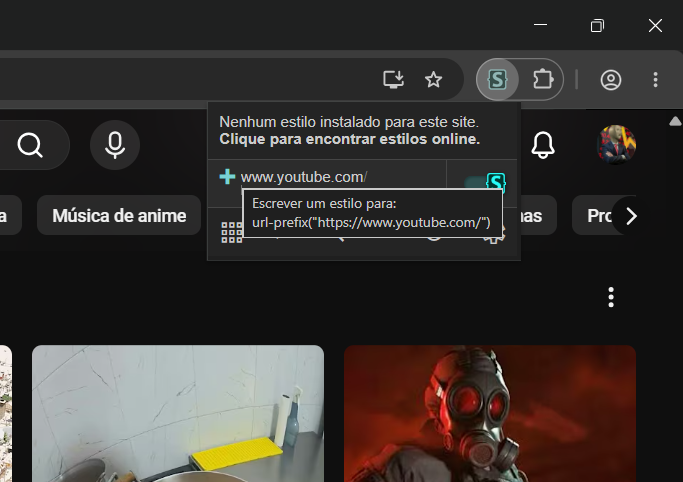
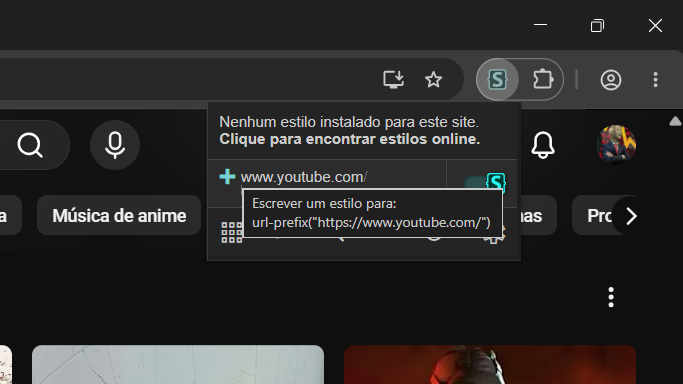
docs: adiciona observação da header

diff --git a/README.md b/README.md
@@ -57,6 +57,8 @@ Para revelar os Shorts, passe o cursor.
 
 Para revelar a header, na página de vídeo, passe o cursor na parte superior da página. Em outras páginas como Home, Inscrições e Shorts, passe o cursor por cima do ícone de olho.
 
+Obs.: A header permanece visível enquanto houver texto na barra de pesquisa. Remova o texto da barra de pesquisa para que a header possa ser ocultado.
+
 ### Outras mudanças
 
 - Adição de ícones nos detalhes da playlist na tela de playlist;
